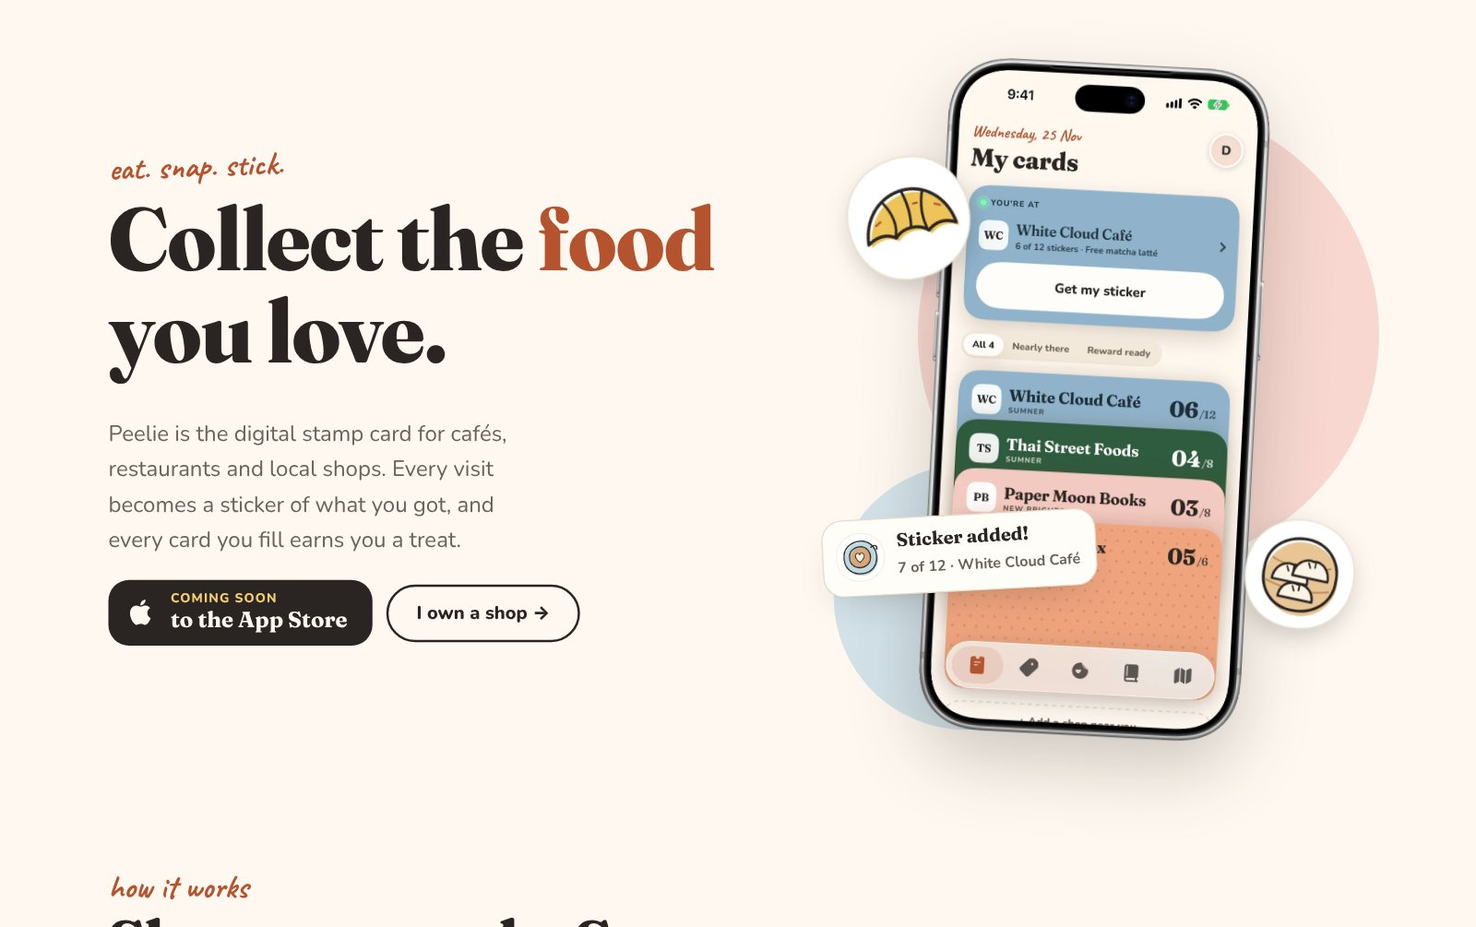
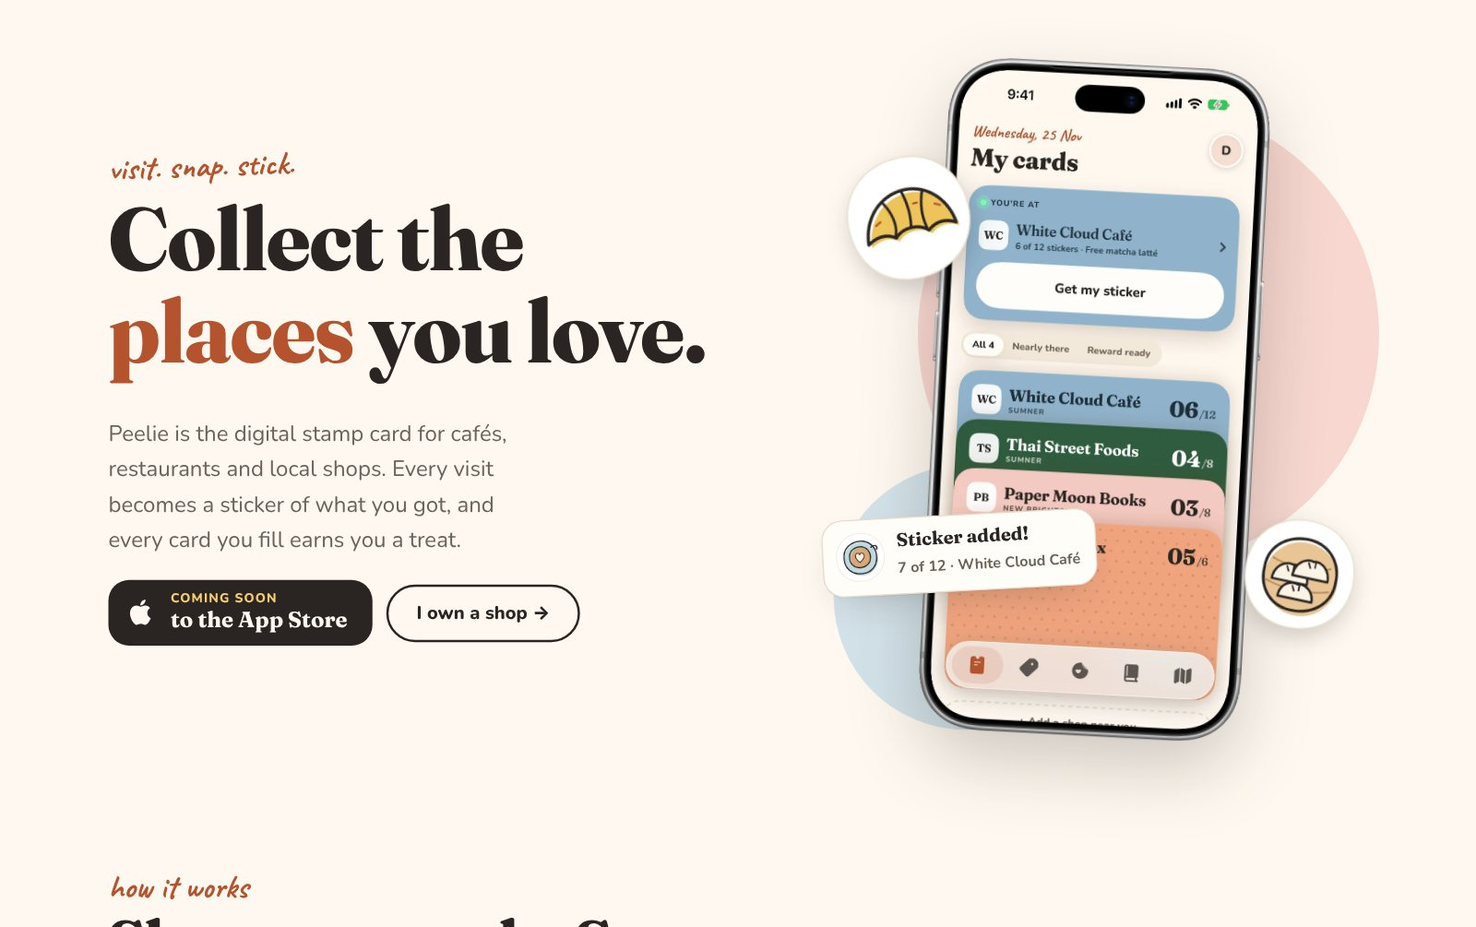
Peelie: menu button on narrow screens; wording for every kind of shop
- Portrait phones and tablets get a menu button that opens a dropdown
  with all the links (closes on tap, Esc or tapping outside). The top-bar
  link rules are scoped to the bar so they don't hide the dropdown.
- Headline 'Collect the places you love.', kicker 'visit. snap. stick.',
  and food-only wording made general across the page, help, privacy,
  structured data, llms.txt and the Projects card.
- New share image and Projects thumbnail with the new headline.

Claude-Session: https://claude.ai/code/session_01LCUTWL3Er8BxxZzStBKY27

Changed region(s): [[0.0625, 0.2159, 0.5, 0.4318], [0.0625, 0.1542, 0.2188, 0.2159]]

diff --git a/peelieapp/index.html b/peelieapp/index.html
@@ -4,7 +4,7 @@
 <meta charset="UTF-8">
 <meta name="viewport" content="width=device-width, initial-scale=1.0">
 <title>Peelie: digital stamp card & loyalty app for cafés and local shops</title>
-<meta name="description" content="Peelie replaces paper loyalty cards for cafés, restaurants and local shops, starting in Christchurch, NZ. Show your code, snap your food, and it becomes a sticker. Free for customers. Coming soon to the App Store.">
+<meta name="description" content="Peelie replaces paper loyalty cards for cafés, restaurants and local shops, starting in Christchurch, NZ. Show your code, snap what you got, and it becomes a sticker. Free for customers. Coming soon to the App Store.">
 <link rel="canonical" href="https://wcloud.nz/peelieapp">
 <link rel="icon" type="image/png" href="/peelieapp/img/icon-64.png">
 <link rel="apple-touch-icon" href="/peelieapp/img/icon-180.png">
@@ -15,15 +15,15 @@
 <meta property="og:site_name"    content="Peelie by White Cloud">
 <meta property="og:locale"       content="en_NZ">
 <meta property="og:url"          content="https://wcloud.nz/peelieapp">
-<meta property="og:title"        content="Peelie: collect the food you love">
-<meta property="og:description"  content="The digital stamp card for cafés, restaurants and local shops. Show your code, snap your food, and it becomes a sticker. Coming soon to the App Store.">
+<meta property="og:title"        content="Peelie: collect the places you love">
+<meta property="og:description"  content="The digital stamp card for cafés, restaurants and local shops. Show your code, snap what you got, and it becomes a sticker. Coming soon to the App Store.">
 <meta property="og:image"        content="https://wcloud.nz/og-peelie.jpg">
 <meta property="og:image:width"  content="1200">
 <meta property="og:image:height" content="630">
 <meta property="og:image:alt"    content="Peelie on iPhone: a stack of stamp cards from local shops, with a Get my sticker button">
 <meta name="twitter:card"        content="summary_large_image">
-<meta name="twitter:title"       content="Peelie: collect the food you love">
-<meta name="twitter:description" content="The digital stamp card for cafés, restaurants and local shops. Show your code, snap your food, and it becomes a sticker. Coming soon to the App Store.">
+<meta name="twitter:title"       content="Peelie: collect the places you love">
+<meta name="twitter:description" content="The digital stamp card for cafés, restaurants and local shops. Show your code, snap what you got, and it becomes a sticker. Coming soon to the App Store.">
 <meta name="twitter:image"       content="https://wcloud.nz/og-peelie.jpg">
 
 <link rel="preconnect" href="https://fonts.googleapis.com">
@@ -55,7 +55,7 @@
       "@id": "https://wcloud.nz/peelieapp#app",
       "name": "Peelie",
       "alternateName": "Peelie: Digital Stamp Card",
-      "description": "Peelie is a digital loyalty stamp card app for cafés, restaurants and local shops, launching in Christchurch (Ōtautahi), New Zealand. Customers show a QR code at the counter, staff scan it with the shop's own phone or iPad, and the customer's photo of their food becomes a sticker on the card. A full card earns the shop's reward, and every sticker is kept in a food diary. Free for customers; shops can use a free plan or Peelie Pro.",
+      "description": "Peelie is a digital loyalty stamp card app for cafés, restaurants and local shops, launching in Christchurch (Ōtautahi), New Zealand. Customers show a QR code at the counter, staff scan it with the shop's own phone or iPad, and the customer's photo of what they got (a coffee, a pastry, a new book) becomes a sticker on the card. A full card earns the shop's reward, and every sticker is kept in a diary of visits. Free for customers; shops can use a free plan or Peelie Pro.",
       "url": "https://wcloud.nz/peelieapp",
       "image": "https://wcloud.nz/peelieapp/img/icon-512.png",
       "screenshot": [
@@ -73,7 +73,7 @@
       "featureList": [
         "Digital stamp cards for cafés, restaurants and local shops",
         "Staff scan the customer's QR code to give a sticker; location isn't needed",
-        "Photos of your food become stickers, kept in a food diary",
+        "Photos of what you got become stickers, kept in a sticker-book diary",
         "Offers from nearby shops, with options to hide or report posts",
         "For shops: card designer, staff check-in with PINs, ads, notifications, analytics and a window poster with QR code",
         "Shops only see a customer's name and contact details if the customer chooses to share them"
@@ -131,7 +131,7 @@
       "@id": "https://wcloud.nz/peelieapp#webpage",
       "url": "https://wcloud.nz/peelieapp",
       "name": "Peelie: digital stamp card & loyalty app for cafés and local shops",
-      "description": "Peelie replaces paper loyalty cards for cafés, restaurants and local shops, starting in Christchurch, NZ. Show your code, snap your food, and it becomes a sticker. Free for customers. Coming soon to the App Store.",
+      "description": "Peelie replaces paper loyalty cards for cafés, restaurants and local shops, starting in Christchurch, NZ. Show your code, snap what you got, and it becomes a sticker. Free for customers. Coming soon to the App Store.",
       "inLanguage": "en-NZ",
       "about": {
         "@id": "https://wcloud.nz/peelieapp#app"
@@ -186,16 +186,37 @@
       <a href="/peelieapp/support">Help</a>
       <a class="pill" href="/peelieapp#contact"><span class="pill-long">Get Peelie for your shop</span><span class="pill-short">For shops</span></a>
     </nav>
+    <button class="menu-btn" type="button" aria-expanded="false" aria-controls="peelie-menu" aria-label="Menu">
+      <svg viewBox="0 0 24 24" width="22" height="22" fill="none" stroke="currentColor" stroke-width="2.2" stroke-linecap="round" aria-hidden="true"><path class="l1" d="M4 7h16"/><path class="l2" d="M4 12h16"/><path class="l3" d="M4 17h16"/></svg>
+    </button>
   </div>
+  <nav class="menu-panel" id="peelie-menu" aria-label="Peelie menu" hidden>
+    <a href="/peelieapp#how">How it works</a>
+    <a href="/peelieapp#cafes">For shops</a>
+    <a href="/peelieapp#pricing">Pricing</a>
+    <a href="/peelieapp/support">Help &amp; support</a>
+    <a href="/peelieapp/privacy">Privacy</a>
+  </nav>
 </header>
+<script>
+  (function () {
+    var top = document.getElementById('top'), btn = top.querySelector('.menu-btn'), panel = document.getElementById('peelie-menu');
+    function set(open) { top.classList.toggle('open', open); btn.setAttribute('aria-expanded', open); panel.hidden = !open; }
+    btn.addEventListener('click', function () { set(panel.hidden); });
+    panel.addEventListener('click', function (e) { if (e.target.closest('a')) set(false); });
+    document.addEventListener('keydown', function (e) { if (e.key === 'Escape' && !panel.hidden) { set(false); btn.focus(); } });
+    document.addEventListener('click', function (e) { if (!panel.hidden && !top.contains(e.target)) set(false); });
+    addEventListener('resize', function () { if (innerWidth > 900 && !panel.hidden) set(false); });
+  })();
+</script>
 
 <main id="main">
 
   <section class="hero">
     <div class="wrap">
       <div>
-        <span class="kick tilt">eat. snap. stick.</span>
-        <h1>Collect the <em>food</em> you love.</h1>
+        <span class="kick tilt">visit. snap. stick.</span>
+        <h1>Collect the <em>places</em> you love.</h1>
         <p class="lead">Peelie is the digital stamp card for cafés, restaurants and local shops. Every visit becomes a sticker of what you got, and every card you fill earns you a treat.</p>
         <div class="btns">
           <div class="soon" role="img" aria-label="Coming soon to the App Store">
@@ -219,7 +240,7 @@
     <div class="wrap">
       <div class="section-head">
         <span class="kick">how it works</span>
-        <h2>Show your code. Snap your food. That's it.</h2>
+        <h2>Show your code. Snap what you got. That's it.</h2>
         <p>No paper cards to lose, and nothing for the shop to install. Staff scan your code with the shop's own phone or iPad.</p>
       </div>
       <div class="steps">
@@ -238,7 +259,7 @@
         <article class="step snap">
           <span class="num">three</span>
           <h3>Snap what you got</h3>
-          <p>Take a photo of your food and it becomes your sticker. Or pick one of ours.</p>
+          <p>Take a photo of your coffee, your lunch or your new find, and it becomes your sticker. Or pick one of ours.</p>
           <div class="stickers">
             <img src="/peelieapp/img/photo-tteokbokki.webp" alt="Sticker made from a photo of tteokbokki" loading="lazy" width="600" height="564" style="width:40%;right:5%;top:5%;transform:rotate(7deg)">
             <img src="/peelieapp/img/photo-matcha.webp" alt="Sticker made from a photo of a matcha latte" loading="lazy" width="534" height="599" style="width:36%;left:6%;top:4%;transform:rotate(-9deg)">
@@ -270,7 +291,7 @@
     <div class="wrap">
       <div class="section-head center">
         <span class="kick">and there's more</span>
-        <h2>Your own food diary.</h2>
+        <h2>Your own sticker diary.</h2>
         <p>Every sticker you collect is kept, so Peelie slowly becomes a record of everything you've loved around town.</p>
       </div>
       <div class="trio">
@@ -408,7 +429,7 @@
       <div>
         <span class="kick">privacy, done properly</span>
         <h2>Shops see your code, not you.</h2>
-        <p>When staff scan you, they see a customer code and your stickers with them. They only see your name and contact details if you switch on sharing for that shop. Promotions are off until you turn them on, and your food photos are just for you.</p>
+        <p>When staff scan you, they see a customer code and your stickers with them. They only see your name and contact details if you switch on sharing for that shop. Promotions are off until you turn them on, and your photos are just for you.</p>
         <p>Your location is only used on your phone and never sent to us. No ads, no tracking, and you can delete your account in the app at any time. <a href="/peelieapp/privacy">Read the privacy policy</a>.</p>
       </div>
     </div>

diff --git a/peelieapp/support/index.html b/peelieapp/support/index.html
@@ -116,7 +116,7 @@
           "name": "When do I take the photo?",
           "acceptedAnswer": {
             "@type": "Answer",
-            "text": "Whenever your food or order arrives. Take a photo and Peelie turns it into a sticker, or pick one of ours instead. If you don't get to it, after 24 hours the spot becomes the shop's own sticker, so you never lose a stamp."
+            "text": "Whenever your order arrives, or once you've got your new find. Take a photo and Peelie turns it into a sticker, or pick one of ours instead. If you don't get to it, after 24 hours the spot becomes the shop's own sticker, so you never lose a stamp."
           }
         },
         {
@@ -156,7 +156,7 @@
           "name": "Can the shop see who I am?",
           "acceptedAnswer": {
             "@type": "Answer",
-            "text": "Not unless you want them to. When they scan you, they see your customer code and your visits, stickers and rewards with them. They only see your name, email, phone and birthday if you switch on sharing for that shop in Settings → Who can see my name. It's off by default, and you can switch it off any time. Shops never see your food photos."
+            "text": "Not unless you want them to. When they scan you, they see your customer code and your visits, stickers and rewards with them. They only see your name, email, phone and birthday if you switch on sharing for that shop in Settings → Who can see my name. It's off by default, and you can switch it off any time. Shops never see your photos."
           }
         },
         {
@@ -309,8 +309,29 @@
       <a href="/peelieapp/support">Help</a>
       <a class="pill" href="/peelieapp#contact"><span class="pill-long">Get Peelie for your shop</span><span class="pill-short">For shops</span></a>
     </nav>
+    <button class="menu-btn" type="button" aria-expanded="false" aria-controls="peelie-menu" aria-label="Menu">
+      <svg viewBox="0 0 24 24" width="22" height="22" fill="none" stroke="currentColor" stroke-width="2.2" stroke-linecap="round" aria-hidden="true"><path class="l1" d="M4 7h16"/><path class="l2" d="M4 12h16"/><path class="l3" d="M4 17h16"/></svg>
+    </button>
   </div>
+  <nav class="menu-panel" id="peelie-menu" aria-label="Peelie menu" hidden>
+    <a href="/peelieapp#how">How it works</a>
+    <a href="/peelieapp#cafes">For shops</a>
+    <a href="/peelieapp#pricing">Pricing</a>
+    <a href="/peelieapp/support">Help &amp; support</a>
+    <a href="/peelieapp/privacy">Privacy</a>
+  </nav>
 </header>
+<script>
+  (function () {
+    var top = document.getElementById('top'), btn = top.querySelector('.menu-btn'), panel = document.getElementById('peelie-menu');
+    function set(open) { top.classList.toggle('open', open); btn.setAttribute('aria-expanded', open); panel.hidden = !open; }
+    btn.addEventListener('click', function () { set(panel.hidden); });
+    panel.addEventListener('click', function (e) { if (e.target.closest('a')) set(false); });
+    document.addEventListener('keydown', function (e) { if (e.key === 'Escape' && !panel.hidden) { set(false); btn.focus(); } });
+    document.addEventListener('click', function (e) { if (!panel.hidden && !top.contains(e.target)) set(false); });
+    addEventListener('resize', function () { if (innerWidth > 900 && !panel.hidden) set(false); });
+  })();
+</script>
 
 <main id="main" class="doc faq">
   <div class="wrap">
@@ -343,7 +364,7 @@
     </details>
     <details>
       <summary>When do I take the photo?</summary>
-      <div><p>Whenever your food or order arrives. Take a photo and Peelie turns it into a sticker, or pick one of ours instead. If you don't get to it, after 24 hours the spot becomes the shop's own sticker, so you never lose a stamp.</p></div>
+      <div><p>Whenever your order arrives, or once you've got your new find. Take a photo and Peelie turns it into a sticker, or pick one of ours instead. If you don't get to it, after 24 hours the spot becomes the shop's own sticker, so you never lose a stamp.</p></div>
     </details>
     <details>
       <summary>How do I claim my reward?</summary>
@@ -365,7 +386,7 @@
     <h2>Privacy &amp; safety</h2>
     <details>
       <summary>Can the shop see who I am?</summary>
-      <div><p>Not unless you want them to. When they scan you, they see your customer code and your visits, stickers and rewards with them. They only see your name, email, phone and birthday if you switch on sharing for that shop in Settings → <strong>Who can see my name</strong>. It's off by default, and you can switch it off any time. Shops never see your food photos.</p></div>
+      <div><p>Not unless you want them to. When they scan you, they see your customer code and your visits, stickers and rewards with them. They only see your name, email, phone and birthday if you switch on sharing for that shop in Settings → <strong>Who can see my name</strong>. It's off by default, and you can switch it off any time. Shops never see your photos.</p></div>
     </details>
     <details>
       <summary>How do I stop promotion notifications?</summary>

diff --git a/peelieapp/privacy/index.html b/peelieapp/privacy/index.html
@@ -112,8 +112,29 @@
       <a href="/peelieapp/support">Help</a>
       <a class="pill" href="/peelieapp#contact"><span class="pill-long">Get Peelie for your shop</span><span class="pill-short">For shops</span></a>
     </nav>
+    <button class="menu-btn" type="button" aria-expanded="false" aria-controls="peelie-menu" aria-label="Menu">
+      <svg viewBox="0 0 24 24" width="22" height="22" fill="none" stroke="currentColor" stroke-width="2.2" stroke-linecap="round" aria-hidden="true"><path class="l1" d="M4 7h16"/><path class="l2" d="M4 12h16"/><path class="l3" d="M4 17h16"/></svg>
+    </button>
   </div>
+  <nav class="menu-panel" id="peelie-menu" aria-label="Peelie menu" hidden>
+    <a href="/peelieapp#how">How it works</a>
+    <a href="/peelieapp#cafes">For shops</a>
+    <a href="/peelieapp#pricing">Pricing</a>
+    <a href="/peelieapp/support">Help &amp; support</a>
+    <a href="/peelieapp/privacy">Privacy</a>
+  </nav>
 </header>
+<script>
+  (function () {
+    var top = document.getElementById('top'), btn = top.querySelector('.menu-btn'), panel = document.getElementById('peelie-menu');
+    function set(open) { top.classList.toggle('open', open); btn.setAttribute('aria-expanded', open); panel.hidden = !open; }
+    btn.addEventListener('click', function () { set(panel.hidden); });
+    panel.addEventListener('click', function (e) { if (e.target.closest('a')) set(false); });
+    document.addEventListener('keydown', function (e) { if (e.key === 'Escape' && !panel.hidden) { set(false); btn.focus(); } });
+    document.addEventListener('click', function (e) { if (!panel.hidden && !top.contains(e.target)) set(false); });
+    addEventListener('resize', function () { if (innerWidth > 900 && !panel.hidden) set(false); });
+  })();
+</script>
 
 <main id="main" class="doc">
   <div class="wrap">
@@ -127,7 +148,7 @@
       <ul>
         <li>We collect what Peelie needs to run your stamp cards, and nothing for advertising.</li>
         <li>When staff scan you, the shop sees a customer code and your stickers with them, not your name. They only see your details if you switch on sharing for that shop.</li>
-        <li>Your food photos are private to you.</li>
+        <li>Your sticker photos are private to you.</li>
         <li>Your location is only used on your phone. We never receive or store it.</li>
         <li>No tracking across other apps or websites, no advertising networks, no analytics companies, and we never sell your data.</li>
         <li>You can delete your account, and everything linked to it, from inside the app.</li>
@@ -149,7 +170,7 @@
         <tr><td>Phone number and birthday <em>(optional)</em></td><td>Only if you add them. A shop you share your details with can use your birthday to send you a birthday treat.</td></tr>
         <tr><td>Your customer code</td><td>A random code like PL-7K2QX9, shown as a QR code. Staff scan or type it to give you a sticker or reward. It doesn't contain your name.</td></tr>
         <tr><td>Your cards, stickers and rewards</td><td>Which shop, when, and which staff member gave each sticker or reward. This is how your cards and diary work.</td></tr>
-        <tr><td>Your sticker photos and dish names</td><td>The photos you add to your stickers, and what you call each dish. These are private: only your own account can see them.</td></tr>
+        <tr><td>Your sticker photos and their names</td><td>The photos you add to your stickers, and what you call each one (like a dish name). These are private: only your own account can see them.</td></tr>
         <tr><td>Your settings</td><td>Reward-ready alerts, birthday treats, photo reminders, promotion alerts for each shop, and whether you share your details with each shop, including when you made each choice.</td></tr>
         <tr><td>A notification token</td><td>So we can send you the notifications you've switched on.</td></tr>
         <tr><td>Reports you make</td><td>If you report a post, we keep the report so the Peelie team can review it.</td></tr>
@@ -171,7 +192,7 @@
       <li>Your name, email, phone and birthday <strong>only</strong> if you switch on sharing for that shop in Settings → <strong>Who can see my name</strong>. It's off by default and you can switch it off any time. Once a shop has your details, it's responsible for looking after them under the Privacy Act.</li>
       <li>Shops can only send promotion notifications to customers who've switched on promotion alerts for that shop. These are off by default, and a shop can send at most two a week.</li>
     </ul>
-    <p>Shops never see your food photos, your location, or your stickers at other shops.</p>
+    <p>Shops never see your sticker photos, your location, or your stickers at other shops.</p>
 
     <h2>What we don't do</h2>
     <ul>

diff --git a/peelieapp/peelie.css b/peelieapp/peelie.css
@@ -66,12 +66,13 @@ p { margin: 0 0 1em; }
 .brand { display: flex; align-items: center; gap: 10px; text-decoration: none; color: var(--ink); }
 .brand img { width: 38px; height: 38px; border-radius: 10px; }
 .brand b { font: 800 1.45rem/1 var(--display); }
-.top nav { margin-left: auto; display: flex; gap: 4px; align-items: center; }
-.top nav a { color: var(--ink); text-decoration: none; font-weight: 800; font-size: .92rem; padding: 9px 14px; border-radius: 999px; }
-.top nav a:hover { background: var(--terra-soft); color: var(--terra-deep); }
-.top nav .pill { background: var(--ink); color: var(--app); margin-left: 6px; }
-.top nav .pill:hover { background: var(--terra); color: #fff; }
-@media (max-width: 760px) { .top nav a:not(.pill) { display: none; } .top nav .pill { font-size: .85rem; padding: 9px 14px; } .brand b { font-size: 1.3rem; } }
+.top .bar nav { margin-left: auto; display: flex; gap: 4px; align-items: center; }
+.top .bar nav a { color: var(--ink); text-decoration: none; font-weight: 800; font-size: .92rem; padding: 9px 14px; border-radius: 999px; }
+.top .bar nav a:hover { background: var(--terra-soft); color: var(--terra-deep); }
+.top .bar nav .pill { background: var(--ink); color: var(--app); margin-left: 6px; }
+.top .bar nav .pill:hover { background: var(--terra); color: #fff; }
+@media (max-width: 900px) { .top .bar nav a:not(.pill) { display: none; } }
+@media (max-width: 760px) { .top .bar nav .pill { font-size: .85rem; padding: 9px 14px; } .brand b { font-size: 1.3rem; } }
 
 /* ─── Buttons ─── */
 .btns { display: flex; flex-wrap: wrap; gap: 12px; align-items: center; }
@@ -284,3 +285,19 @@ section { padding: 88px 0; }
 /* "Unlimited" in words, sized to sit level with the "50" and "1" tiles */
 .tile b.word { font-size: 1.55rem; line-height: 1.29; }
 @media (max-width: 400px) { .tile b.word { font-size: 1.2rem; line-height: 1.67; } .tile { padding: 12px 12px 10px; } }
+
+/* Menu button + dropdown for portrait tablets and phones */
+.menu-btn { display: none; width: 44px; height: 44px; margin-left: 6px; border: 0; border-radius: 50%; background: var(--slot); color: var(--ink); cursor: pointer; place-items: center; flex: none; }
+.menu-btn:hover { background: var(--terra-soft); color: var(--terra-deep); }
+.menu-btn path { transition: transform .2s, opacity .2s; transform-origin: 12px 12px; }
+.top.open .menu-btn .l1 { transform: translateY(5px) rotate(45deg); }
+.top.open .menu-btn .l2 { opacity: 0; }
+.top.open .menu-btn .l3 { transform: translateY(-5px) rotate(-45deg); }
+.top .menu-panel { max-width: 1100px; margin: 8px auto 0; gap: 0; background: var(--surface); border: 1px solid var(--line); border-radius: 24px; box-shadow: 0 18px 40px -18px rgba(42,37,34,.35); padding: 8px; display: grid; }
+.top .menu-panel[hidden] { display: none; }
+.top .menu-panel a { display: block; color: var(--ink); text-decoration: none; font: 800 1.05rem/1 var(--body); padding: 16px 16px; border-radius: 16px; }
+.menu-panel a + a { border-top: 1px solid var(--line); border-radius: 0; }
+.menu-panel a:hover, .menu-panel a:focus-visible { background: var(--terra-soft); color: var(--terra-deep); border-radius: 16px; }
+@media (max-width: 900px) { .menu-btn { display: grid; } }
+@media (min-width: 901px) { .top .menu-panel { display: none !important; } }
+@media (prefers-reduced-motion: reduce) { .menu-btn path { transition: none; } }

diff --git a/projects.html b/projects.html
@@ -169,11 +169,11 @@
 
 
         <a class="proj glass" href="/peelieapp">
-          <div class="proj-shot"><img src="/assets/peelie-preview.jpg" alt="Peelie, a digital stamp card app for cafés" loading="lazy" width="1600" height="1005"></div>
+          <div class="proj-shot"><img src="/assets/peelie-preview.jpg" alt="Peelie, a digital stamp card app for cafés and local shops" loading="lazy" width="1600" height="1005"></div>
           <div class="proj-body">
             <span class="proj-tag">Our own app &middot; native iOS</span>
             <h3>Peelie</h3>
-            <p>A digital stamp card for Christchurch caf&eacute;s, where every visit becomes a sticker made from a photo of your food. Coming soon to the App Store.</p>
+            <p>A digital stamp card for caf&eacute;s, restaurants and local shops, where every visit becomes a sticker made from your own photo. Launching in Christchurch, coming soon to the App Store.</p>
             <span class="proj-go">wcloud.nz/peelieapp <svg viewBox="0 0 24 24" fill="none" stroke-width="2.2" stroke-linecap="round" stroke-linejoin="round"><path d="M7 17L17 7M9 7h8v8"/></svg></span>
           </div>
         </a>
